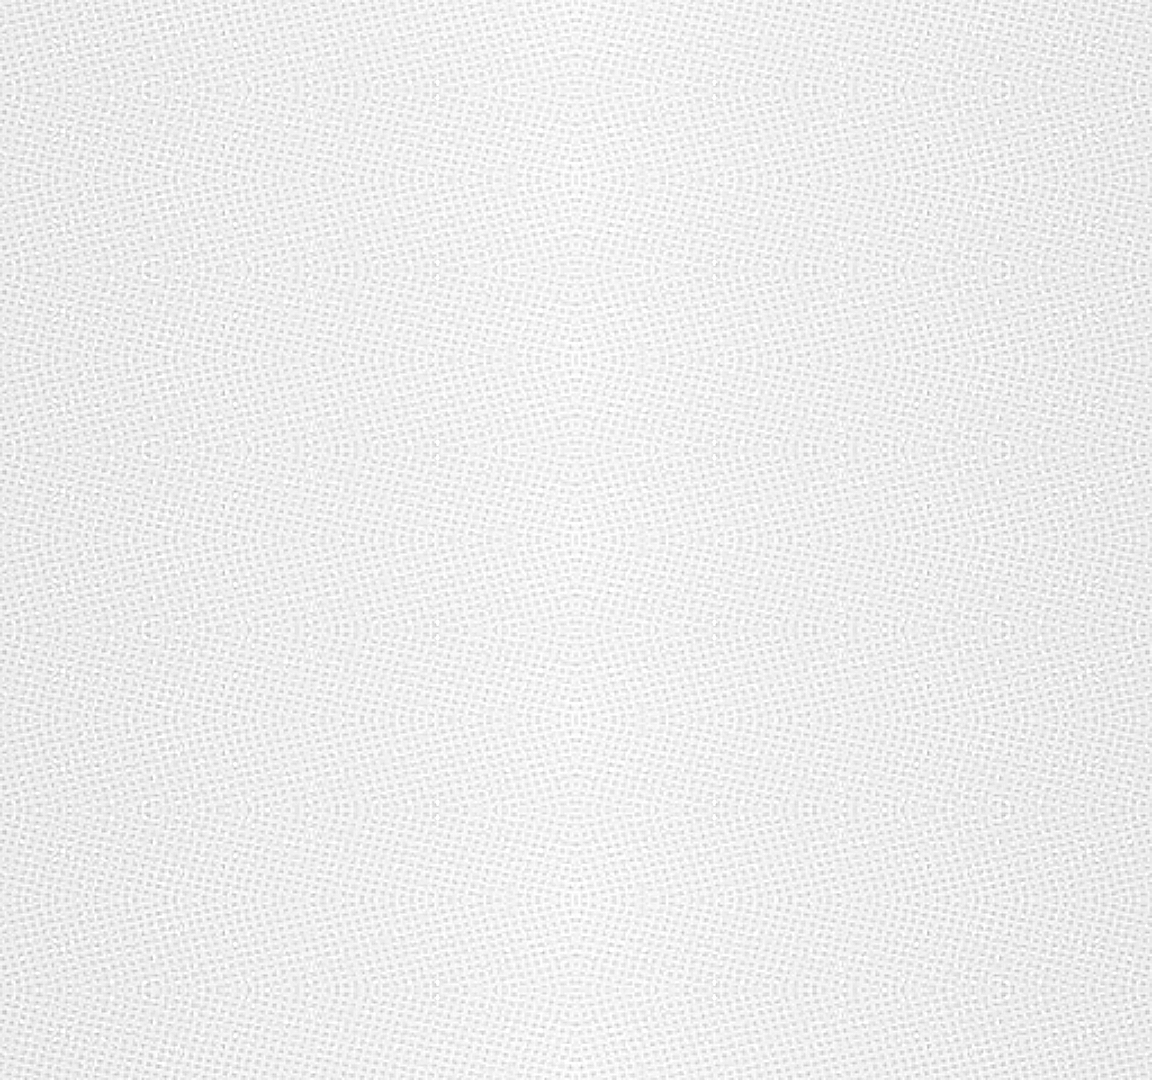
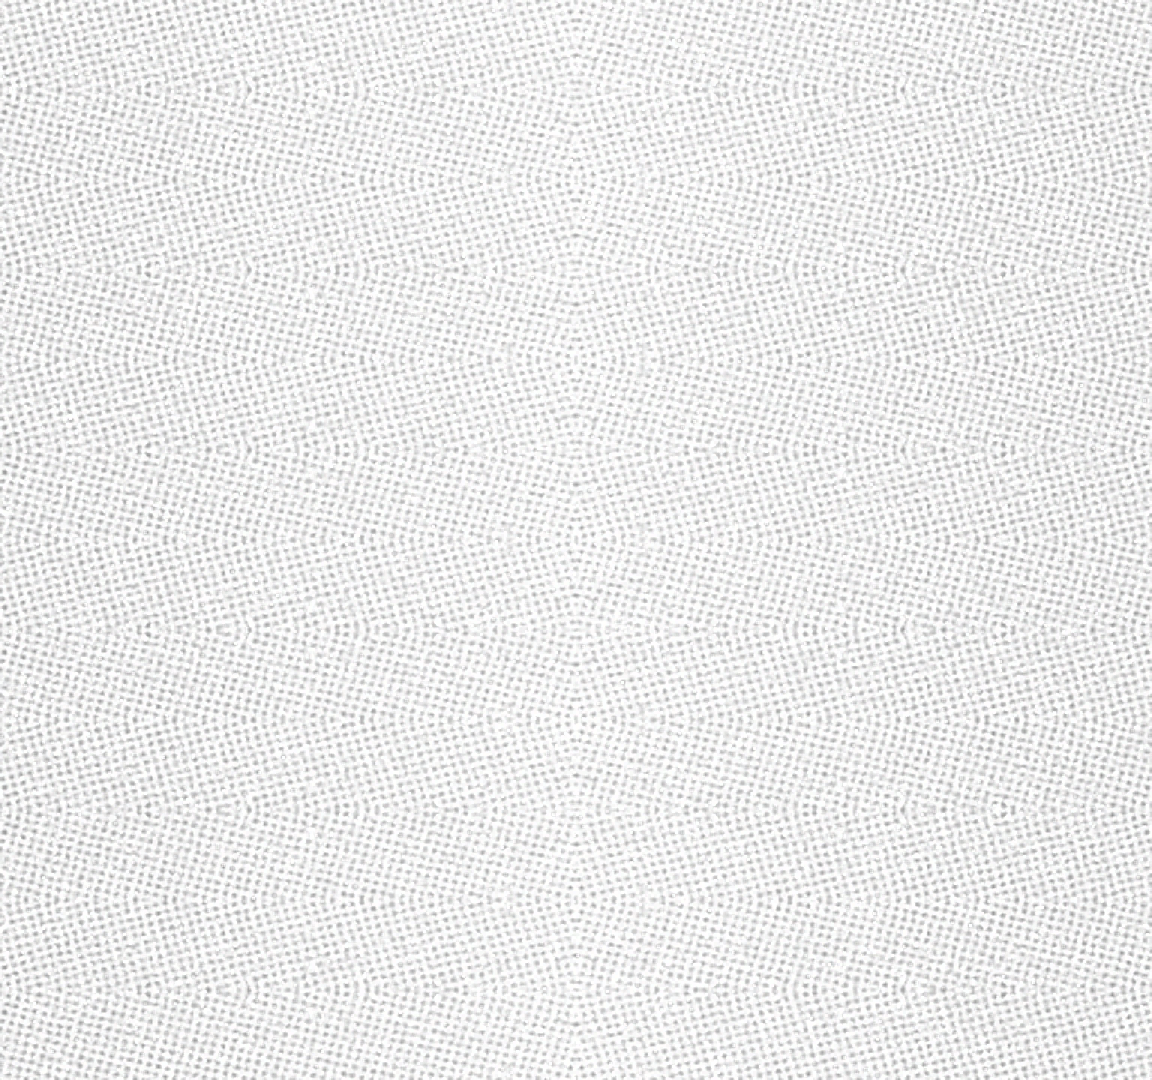
fix(line-pull): match visible reference grain across pixel densities

diff --git a/pages/line-pull/style.css b/pages/line-pull/style.css
@@ -39,7 +39,7 @@ body {
 .surface-grain {
   position: absolute;
   inset: 0;
-  /* The former convolution + multiply/screen pair is baked into this alpha tile. */
+  /* Relief, irregular bright grain and subtle color noise are baked into one tile. */
   z-index: 3;
   background-image: url('./assets/surface-relief@1x.webp');
   background-image: image-set(

diff --git a/pages/line-pull/spec.md b/pages/line-pull/spec.md
@@ -41,14 +41,16 @@
 - 문자는 열린 틈의 중간점이 아니라 확대되는 원래 표면에 붙어 있다. 길게 당겨도 문자가 아래로 계속 따라 내려가지 않으며, 가로 확대도 유지한다.
 - 문자의 가로 중심은 항상 화면 중앙이다. 텍스트용 확대 계산도 화면 중앙을 기준으로 하므로 포인터만 좌우로 움직였을 때 위치와 크기가 변하지 않는다. 세로 당김에 따른 확대는 유지한다.
 - 기존 영상 추출 텍스처를 표면 전체에 공유한다. 텍스처에만 적용되는 CSS 확대는 선의 입력 좌표에 영향을 주지 않는다.
-- 질감은 384×360 CSS px 타일로 표시한다. 원본의 5×5 미세 요철 강조와 어두운 홈·밝은 망점의 합성 결과를 `surface-relief@1x/2x/3x.webp`에 미리 계산해 둔다. 무채색 질감의 `multiply`와 `screen` 합성을 일반 알파 이미지 한 장으로 합쳐, 실행 중에는 전체 화면 필터나 별도 블렌딩 패스를 사용하지 않는다. 실제 높이 변형이 아니라 명암으로 요철을 표현한다.
+- 질감은 384×360 CSS px 타일로 표시한다. 원본의 미세 요철, 불규칙한 밝은 알갱이, 약한 RGB 노이즈를 `surface-relief@1x/2x/3x.webp`에 미리 계산해 둔다. 규칙적인 직조 무늬만 남기지 않고, 검은 바탕에서도 드문 밝은 점들이 눈에 들어오도록 만든다. 평균 밝기를 전체적으로 올리는 대신 밝은 꼬리가 긴 입자 분포를 사용한다.
+- 요철을 추출하는 주변 영역과 노이즈 입자 크기는 CSS px 기준이다. 고밀도 이미지에서 커널만 상대적으로 작아지거나 노이즈가 서브픽셀로 축소되어 사라지지 않게 한다. 난수는 좌표에 고정되므로 재생성할 때 같은 결과가 나오며, 실행 중 깜빡이는 노이즈 애니메이션은 없다.
+- 기본 요철의 `multiply`·`screen` 결과와 추가 노이즈를 일반 알파 이미지 한 장에 합친다. 검은 바탕의 밝은 입자를 살리되 글자를 검은 구멍으로 훼손하지 않도록 투과율을 유지한다. 실제 높이 변형이 아니라 명암으로 요철을 표현하며, 실행 중에는 전체 화면 필터나 별도 블렌딩 패스를 사용하지 않는다.
 
 ## 렌더링 비용
 
 - 포인터 이벤트는 입력 상태만 갱신하고 렌더링을 예약한다. 같은 프레임에 여러 이벤트가 와도 `frame-loop.ts`가 SVG 갱신을 한 번으로 합친다.
 - 추종이나 복원 중에만 다음 프레임을 예약하고, 움직임이 끝나면 멈춘다. 다시 입력하면 즉시 깨우되 대기 시간을 물리 적분에 포함하지 않는다.
 - 질감 확대는 독립된 `surface-grain` 요소의 transform만 바꾼다. 부모의 상속 CSS 변수를 매번 바꿔 SVG 전체의 스타일을 무효화하지 않는다.
-- 텍스처는 무손실 WebP이며 화면 밀도에 맞는 파일 하나만 선택한다. 자산을 다시 만들 때만 ffmpeg가 필요하다. `pnpm generate:line-pull-texture`로 재생성하며 일반 개발 서버·빌드는 저장된 파일을 바로 사용한다.
+- 텍스처는 낮은 알파에 맞춰 RGB를 작은 단계로 양자화한 뒤 무손실 WebP로 저장하고, 화면 밀도에 맞는 파일 하나만 선택한다. 자산을 다시 만들 때만 ffmpeg가 필요하다. `pnpm generate:line-pull-texture`로 재생성하며 일반 개발 서버·빌드는 저장된 파일을 바로 사용한다.
 
 ## 복원과 예외 처리
 
@@ -58,7 +60,7 @@
 
 ## 검증
 
-Node.js 22.6 이상에서 `node --experimental-strip-types --test pages/line-pull/*.test.mjs`로 지오메트리·텍스트 배치, 중복 프레임 방지·대기 후 재개, 기존 질감 합성과 미리 계산한 알파 이미지의 색상 일치를 검사한다. `pnpm typecheck`에 이 페이지를 포함한다.
+Node.js 22.6 이상에서 `node --experimental-strip-types --test pages/line-pull/*.test.mjs`로 지오메트리·텍스트 배치, 중복 프레임 방지·대기 후 재개, 기본 질감 합성, 검정 위의 노이즈 대비와 밝은 입자, 고밀도 이미지의 입자 크기 유지를 검사한다. `pnpm typecheck`에 이 페이지를 포함한다.
 
 렌더링은 기존 Chrome에서 레퍼런스와 같은 720×1280 크기로 비교한다. 줄 사이의 짧은 이동, 첫 교차, 짧고 긴 당김, 위쪽 당김, 화면 가장자리, 복원 중 재입력을 확인한다. 실제 드래그의 놓기 직전 프레임을 비교하며 복원 중 프레임을 당김 상태로 오인하지 않는다.
 
